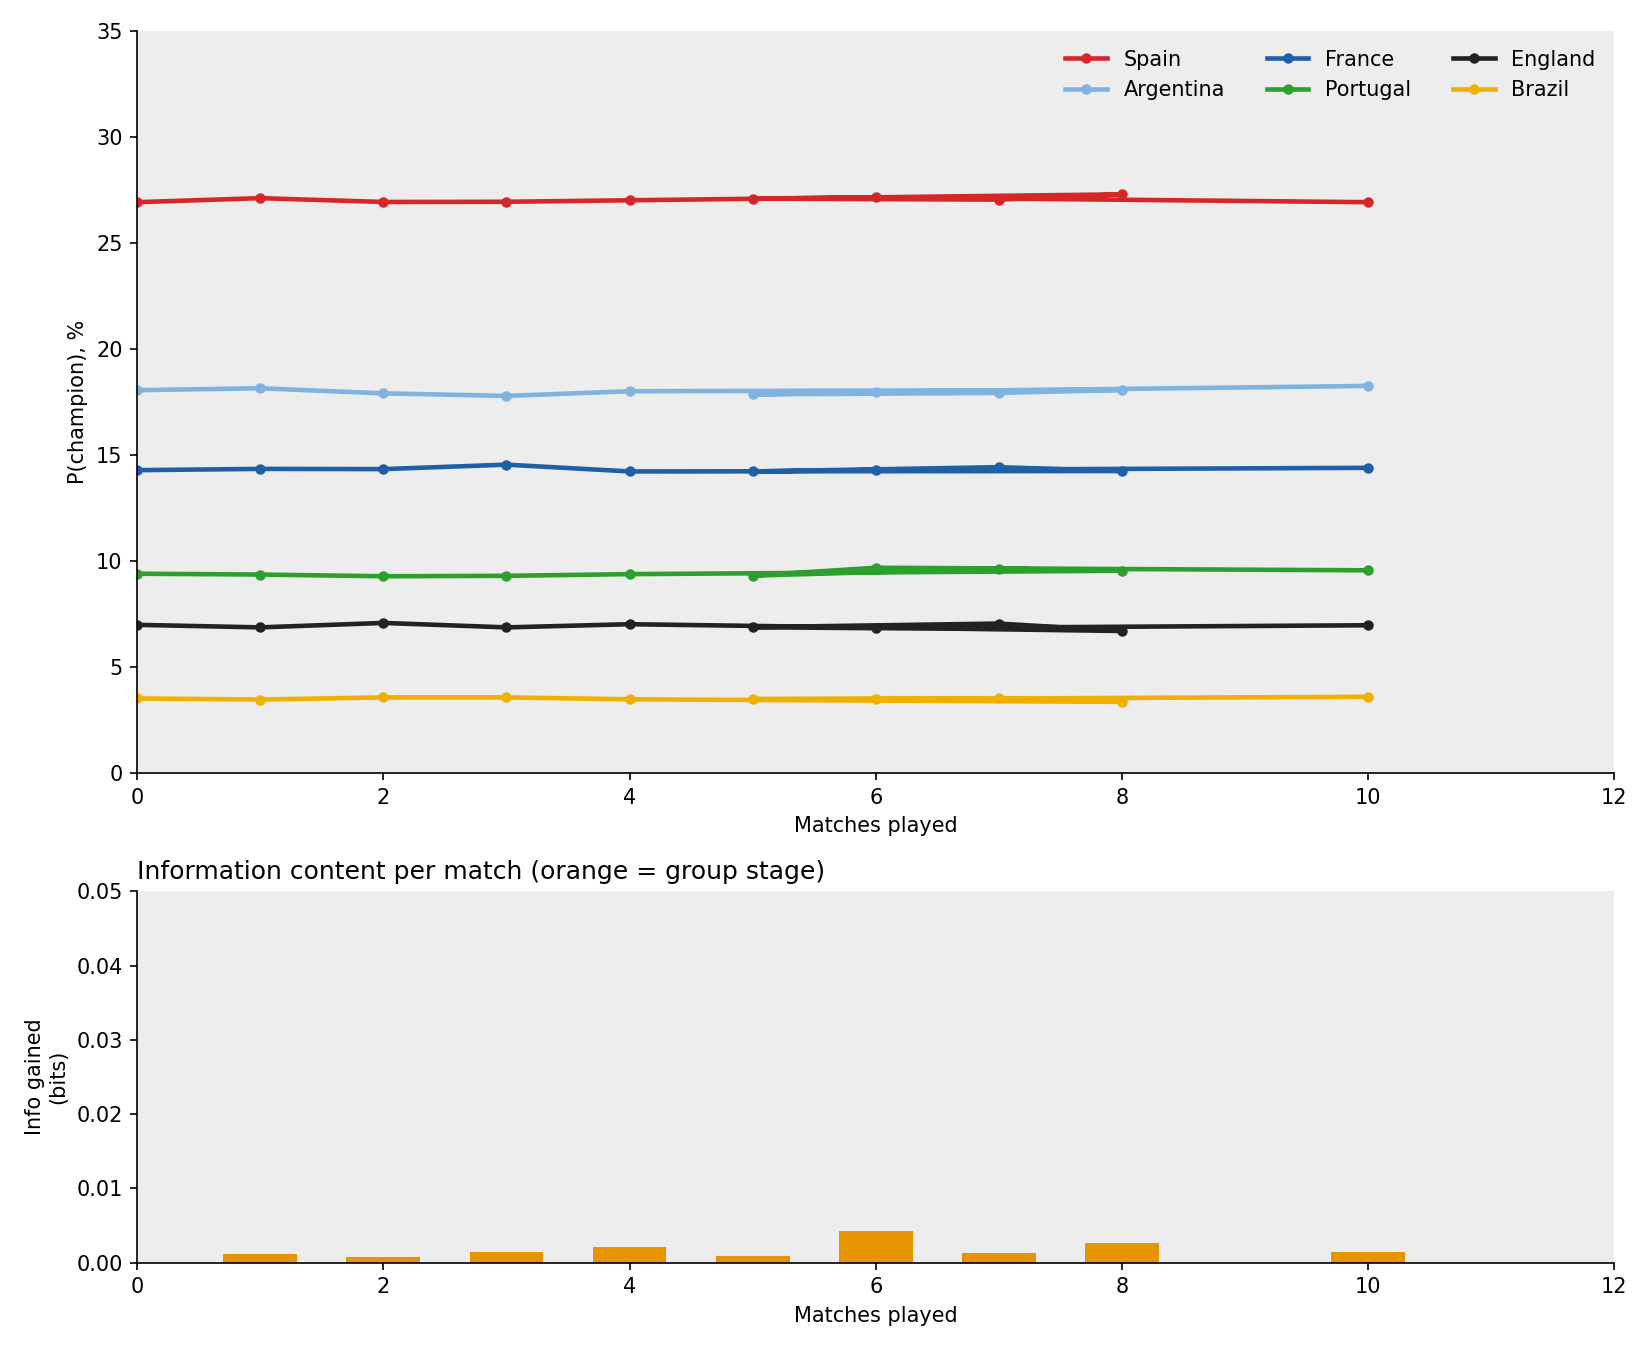
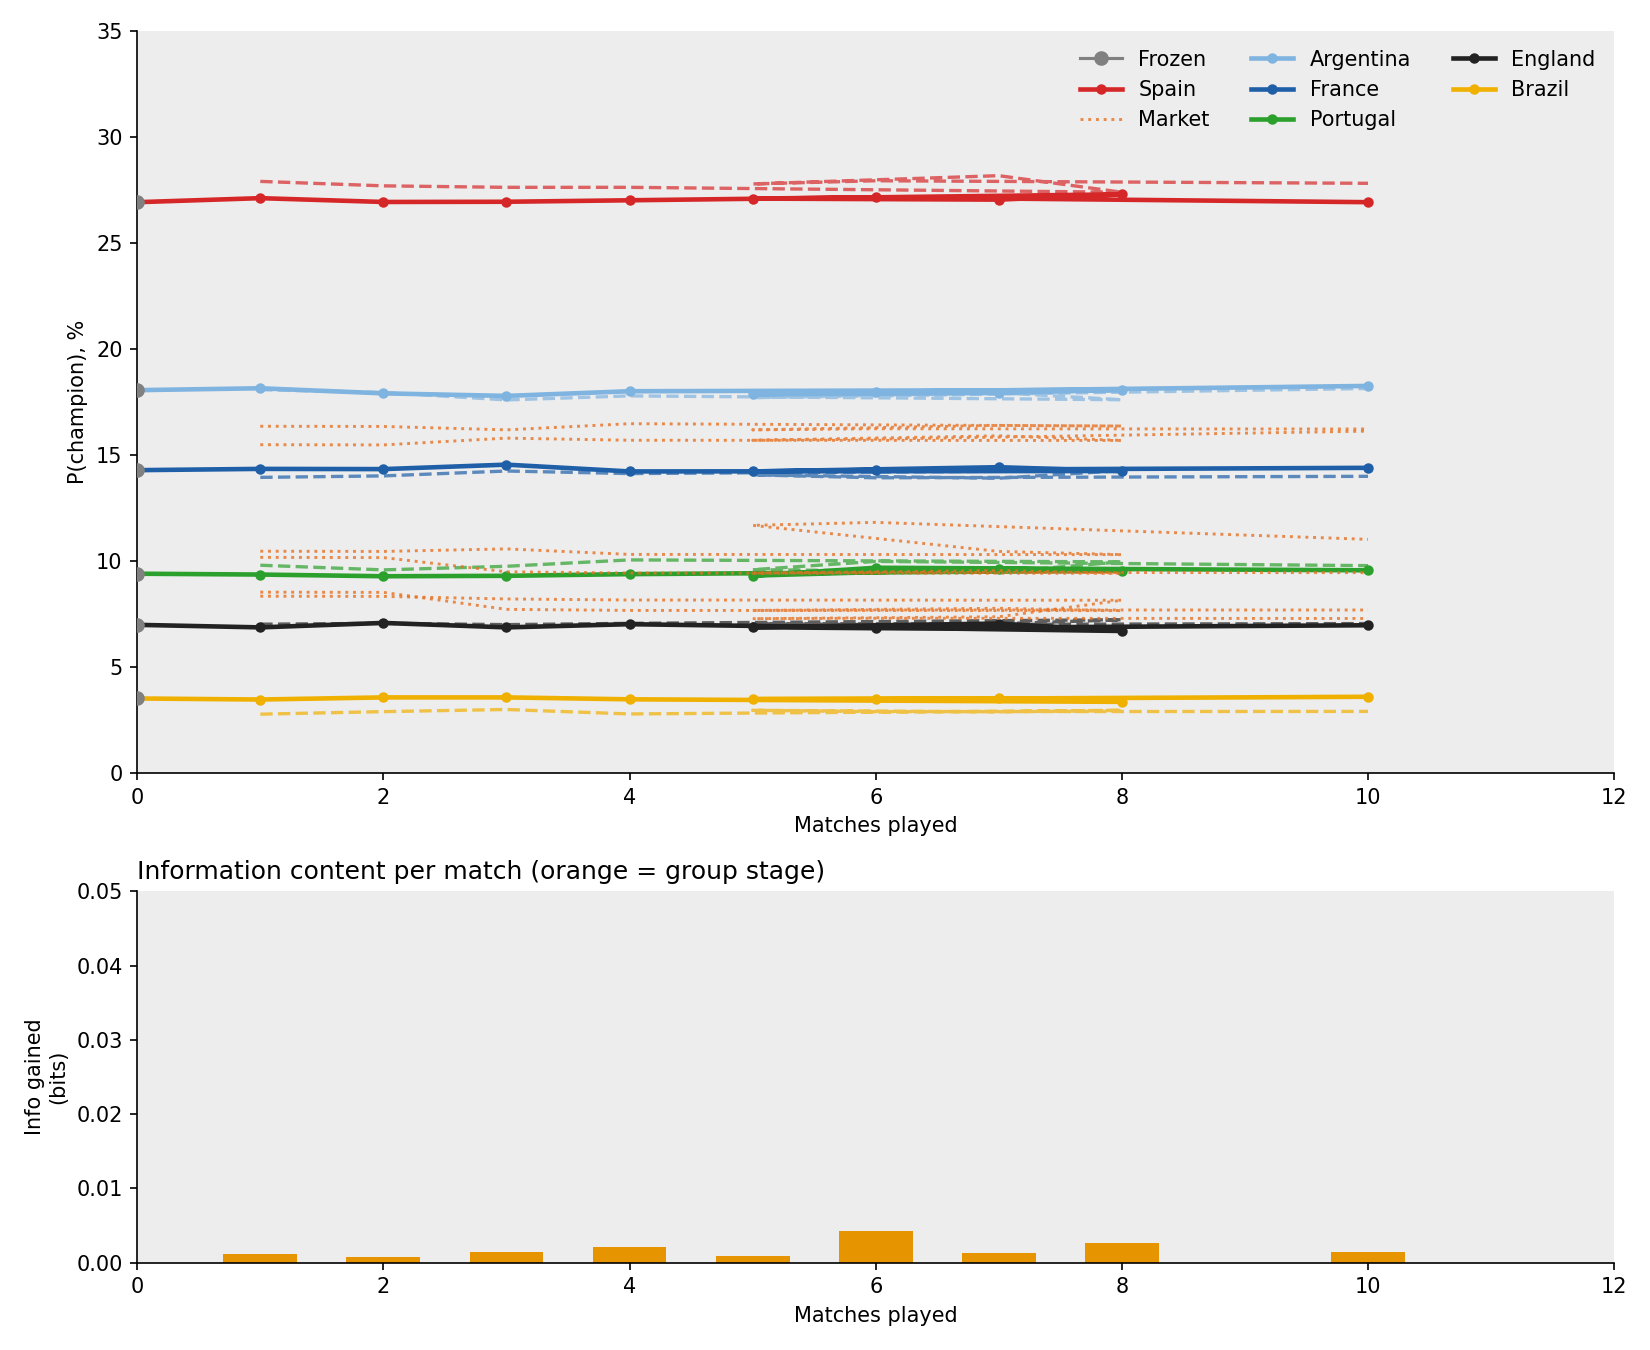
feat: §3.7/§3.9/§3.20 — ledger Track A/B cols, 4-line trajectory, bracket slot risk table

diff --git a/scripts/render_live.py b/scripts/render_live.py
@@ -548,21 +548,90 @@ def groupqual_live_unit(ctx):
     )
 
 
+_R32_PAIRS = [
+    # (home, away, match_number) — pre-registered bracket (LEFT then RIGHT half)
+    ("Germany",       "Paraguay",              73),
+    ("France",        "Sweden",                74),
+    ("South Korea",   "Canada",                75),
+    ("Netherlands",   "Morocco",               76),
+    ("Colombia",      "Croatia",               77),
+    ("Spain",         "Austria",               78),
+    ("United States", "Bosnia and Herzegovina", 79),
+    ("Belgium",       "Czechia",               80),
+    ("Brazil",        "Japan",                 81),
+    ("Ecuador",       "Norway",                82),
+    ("Mexico",        "Ivory Coast",           83),
+    ("England",       "Algeria",               84),
+    ("Argentina",     "Uruguay",               85),
+    ("Turkey",        "Egypt",                 86),
+    ("Switzerland",   "Iran",                  87),
+    ("Portugal",      "Senegal",               88),
+]
+
+
+def _slot_status(frozen_pct, track_b_pct):
+    drop = frozen_pct - track_b_pct
+    if drop < 5:
+        return "\\checkmark"
+    if drop <= 20:
+        return "$\\triangle$"
+    return "$\\times$"
+
+
 def bracket_live_unit(ctx):
-    """Knockout bracket: placeholder during group stage, live figure once KO begins."""
+    """Knockout bracket: slot risk table during group stage, live figure once KO begins."""
     ko_results = ctx.get("results", {}).get("ko", {})
-    if not ko_results:
+    if ko_results:
         return (
-            "\\textit{No knockout results yet; the frozen bracket "
-            "(Figure~\\ref{fig:bracket}) remains the current best estimate.}"
+            "\\begin{figure}[!t]\n"
+            "  \\caption{The submitted bracket updated through M\\liveEditionNum{}; "
+            "shaded cells are confirmed results}\\label{fig:live_bracket}\n"
+            "  {\\centering\\includegraphics[width=0.94\\textwidth]"
+            "{figs/fig_live_bracket.pdf}\\par}\n"
+            "\\end{figure}"
         )
+    frozen = ctx.get("frozen", {})
+    now = ctx.get("now", {})
+    now_b = ctx.get("now_b", {})
+    has_b = bool(now_b)
+
+    rows = []
+    for home, away, mn in _R32_PAIRS:
+        for team in (home, away):
+            fr = frozen.get(team, {}).get("advance_KO", 0.0)
+            ta = now.get(team, frozen.get(team, {})).get("advance_KO", fr)
+            tb = now_b.get(team, {}).get("advance_KO", float("nan")) if has_b else float("nan")
+            fr_p, ta_p = round(100 * fr, 1), round(100 * ta, 1)
+            tb_str = f"{100 * tb:.1f}" if tb == tb else "--"
+            status = _slot_status(fr_p, 100 * tb if tb == tb else fr_p) if has_b else ""
+            b_col = f" & {tb_str} & {status}" if has_b else ""
+            rows.append(
+                f"{team} advance & M{mn} & {fr_p} & {ta_p}{b_col} \\\\"
+            )
+
+    if has_b:
+        col_spec = "llrrrl"
+        hdr = "KO Pick & Slot & Frozen~\\% & Track~A~\\% & Track~B~\\% & Status \\\\"
+        note = (
+            "Status: \\checkmark{} = Track~B within 5 pp of Frozen; "
+            "$\\triangle$ = 5--20 pp drop; $\\times$ = pick reversed ($>$20 pp)."
+        )
+    else:
+        col_spec = "llrr"
+        hdr = "KO Pick & Slot & Frozen~\\% & Track~A~\\% \\\\"
+        note = ""
+
+    body = "\n".join(rows)
+    note_line = f"\n\\smallskip\\begin{{footnotesize}}{note}\\end{{footnotesize}}" if note else ""
     return (
-        "\\begin{figure}[!t]\n"
-        "  \\caption{The submitted bracket updated through M\\liveEditionNum{}; "
-        "shaded cells are confirmed results}\\label{fig:live_bracket}\n"
-        "  {\\centering\\includegraphics[width=0.94\\textwidth]"
-        "{figs/fig_live_bracket.pdf}\\par}\n"
-        "\\end{figure}"
+        "\\begin{table}[!t]\n  \\centering\n"
+        "  \\caption{R32 slot risk: probability each pre-registered pick "
+        "advances from the group stage (live edition M\\liveEditionNum{})"
+        "}\\label{tab:live_slot_risk}\n"
+        f"  {{\\begin{{footnotesize}}\\begin{{tabular}}{{{col_spec}}}\n"
+        f"  \\toprule\n  {hdr}\n  \\midrule\n  {body}\n"
+        "  \\bottomrule\\end{tabular}\\end{footnotesize}}"
+        + note_line + "\n\\end{table}"
     )
 
 

diff --git a/paper/live/bracket_live.tex b/paper/live/bracket_live.tex
@@ -1,2 +1,43 @@
 % GENERATED by scripts/render_live.py — do not edit by hand.
-\textit{No knockout results yet; the frozen bracket (Figure~\ref{fig:bracket}) remains the current best estimate.}
+\begin{table}[!t]
+  \centering
+  \caption{R32 slot risk: probability each pre-registered pick advances from the group stage (live edition M\liveEditionNum{})}\label{tab:live_slot_risk}
+  {\begin{footnotesize}\begin{tabular}{llrrrl}
+  \toprule
+  KO Pick & Slot & Frozen~\% & Track~A~\% & Track~B~\% & Status \\
+  \midrule
+  Germany advance & M73 & 98.8 & 99.9 & 100.0 & \checkmark \\
+Paraguay advance & M73 & 65.2 & 38.9 & 21.6 & $\times$ \\
+France advance & M74 & 98.5 & 98.3 & 98.3 & \checkmark \\
+Sweden advance & M74 & 64.2 & 63.5 & 51.5 & $\triangle$ \\
+South Korea advance & M75 & 66.2 & 92.3 & 98.1 & \checkmark \\
+Canada advance & M75 & 88.4 & 84.1 & 85.1 & \checkmark \\
+Netherlands advance & M76 & 91.0 & 91.0 & 95.9 & \checkmark \\
+Morocco advance & M76 & 88.8 & 93.6 & 91.2 & \checkmark \\
+Colombia advance & M77 & 94.0 & 93.7 & 90.3 & \checkmark \\
+Croatia advance & M77 & 95.4 & 95.1 & 94.5 & \checkmark \\
+Spain advance & M78 & 98.9 & 98.8 & 99.7 & \checkmark \\
+Austria advance & M78 & 76.1 & 75.9 & 75.4 & \checkmark \\
+United States advance & M79 & 82.3 & 98.4 & 97.2 & \checkmark \\
+Bosnia and Herzegovina advance & M79 & 62.4 & 66.5 & 71.2 & \checkmark \\
+Belgium advance & M80 & 96.4 & 96.4 & 94.7 & \checkmark \\
+Czechia advance & M80 & 68.3 & 50.5 & 59.6 & $\triangle$ \\
+Brazil advance & M81 & 98.4 & 98.0 & 97.5 & \checkmark \\
+Japan advance & M81 & 76.0 & 75.3 & 92.0 & \checkmark \\
+Ecuador advance & M82 & 87.7 & 87.7 & 97.5 & \checkmark \\
+Norway advance & M82 & 89.4 & 89.0 & 86.2 & \checkmark \\
+Mexico advance & M83 & 91.6 & 98.6 & 98.6 & \checkmark \\
+Ivory Coast advance & M83 & 81.5 & 81.1 & 64.9 & $\triangle$ \\
+England advance & M84 & 99.0 & 98.9 & 98.6 & \checkmark \\
+Algeria advance & M84 & 57.4 & 56.9 & 50.8 & $\triangle$ \\
+Argentina advance & M85 & 98.9 & 98.9 & 99.5 & \checkmark \\
+Uruguay advance & M85 & 87.8 & 87.6 & 94.7 & \checkmark \\
+Turkey advance & M86 & 80.4 & 49.2 & 73.9 & $\triangle$ \\
+Egypt advance & M86 & 76.6 & 76.1 & 65.2 & $\triangle$ \\
+Switzerland advance & M87 & 94.0 & 85.6 & 90.6 & \checkmark \\
+Iran advance & M87 & 62.6 & 61.5 & 81.7 & \checkmark \\
+Portugal advance & M88 & 97.3 & 97.2 & 98.7 & \checkmark \\
+Senegal advance & M88 & 81.5 & 81.2 & 76.7 & \checkmark \\
+  \bottomrule\end{tabular}\end{footnotesize}}
+\smallskip\begin{footnotesize}Status: \checkmark{} = Track~B within 5 pp of Frozen; $\triangle$ = 5--20 pp drop; $\times$ = pick reversed ($>$20 pp).\end{footnotesize}
+\end{table}

diff --git a/paper/live/ledger.tex b/paper/live/ledger.tex
@@ -1,22 +1,22 @@
 % GENERATED by scripts/render_live.py — do not edit by hand.
-\begin{longtable}{rlcccccl}
+\begin{longtable}{rlcccccccl}
 \caption{Match record (live edition)}\label{tab:live_ledger}\\
 \toprule
-M & Fixture & Pick & Result & Pts & Brier & Info & Mode \\
+M & Fixture & Frozen & Track~A & Track~B & Result & Pts & Brier & Info & Mode \\
 \midrule
 \endfirsthead
 \toprule
-M & Fixture & Pick & Result & Pts & Brier & Info & Mode \\
+M & Fixture & Frozen & Track~A & Track~B & Result & Pts & Brier & Info & Mode \\
 \midrule
 \endhead
-1 & Mexico v South Africa & 2--1 & 2--0 & 1 & 0.166 & 0.001 & -- \\
-2 & South Korea v Czechia & 1--1 & 2--1 & 0 & 0.613 & 0.001 & -- \\
-3 & Canada v Bosnia and Herzegovina & 2--1 & 1--1 & 0 & 0.888 & 0.001 & -- \\
-4 & United States v Paraguay & 2--1 & 4--1 & 1 & 0.418 & 0.002 & -- \\
-5 & Haiti v Scotland & 1--2 & 0--1 & 2 & 0.194 & 0.001 & -- \\
-6 & Australia v Turkey & 1--2 & 2--0 & 0 & 0.976 & 0.004 & systematic\_rating\_error \\
-7 & Brazil v Morocco & 2--1 & 1--1 & 0 & 0.965 & 0.001 & systematic\_rating\_error \\
-8 & Qatar v Switzerland & 1--2 & 1--1 & 0 & 1.220 & 0.003 & systematic\_rating\_error \\
-10 & Germany v Curaçao & 3--0 & 7--1 & 1 & 0.010 & 0.001 & -- \\
+1 & Mexico v South Africa & 2--1 & -- & -- & 2--0 & 1 & 0.166 & 0.001 & -- \\
+2 & South Korea v Czechia & 1--1 & -- & -- & 2--1 & 0 & 0.613 & 0.001 & -- \\
+3 & Canada v Bosnia and Herzegovina & 2--1 & -- & -- & 1--1 & 0 & 0.888 & 0.001 & -- \\
+4 & United States v Paraguay & 2--1 & -- & -- & 4--1 & 1 & 0.418 & 0.002 & -- \\
+5 & Haiti v Scotland & 1--2 & -- & -- & 0--1 & 2 & 0.194 & 0.001 & -- \\
+6 & Australia v Turkey & 1--2 & -- & -- & 2--0 & 0 & 0.976 & 0.004 & systematic\_rating\_error \\
+7 & Brazil v Morocco & 2--1 & -- & -- & 1--1 & 0 & 0.965 & 0.001 & systematic\_rating\_error \\
+8 & Qatar v Switzerland & 1--2 & -- & -- & 1--1 & 0 & 1.220 & 0.003 & systematic\_rating\_error \\
+10 & Germany v Curaçao & 3--0 & -- & -- & 7--1 & 1 & 0.010 & 0.001 & -- \\
 \bottomrule
 \end{longtable}

diff --git a/scripts/plot_trajectory_live.py b/scripts/plot_trajectory_live.py
@@ -35,9 +35,24 @@ def build(trajectory, through_match=None, out=None):
     fig, (ax1, ax2) = plt.subplots(2, 1, figsize=(11, 9),
                                    gridspec_kw={"height_ratios": [2.0, 1.0]})
     for team, col in TEAM_COLORS.items():
-        ys = [100 * base.get(team, 0.0)] + \
-             [100 * r["champion"].get(team, 0.0) for r in posts]
-        ax1.plot(xs, ys, color=col, lw=2.2, label=team, marker="o", ms=4)
+        y0 = 100 * base.get(team, 0.0)
+        # Frozen dot at x=0 (gray, never moves)
+        ax1.plot([0], [y0], color="0.5", marker="o", ms=6, zorder=5,
+                 label="Frozen" if team == "Spain" else None)
+        # Track A (result-conditioned)
+        ys_a = [y0] + [100 * r["champion"].get(team, 0.0) for r in posts]
+        ax1.plot(xs, ys_a, color=col, lw=2.2, label=team, marker="o", ms=4)
+        # Track B (result + Elo, green dashed), when available
+        ys_b = [100 * r.get("champion_b", {}).get(team, float("nan")) for r in posts]
+        if any(v == v for v in ys_b):  # at least one non-nan
+            ax1.plot([r["match"] for r in posts], ys_b,
+                     color=col, lw=1.6, ls="--", alpha=0.7)
+        # Market (Polymarket de-vigged, orange dotted), when available
+        ys_m = [100 * r.get("market_champion", {}).get(team, float("nan")) for r in posts]
+        if any(v == v for v in ys_m):
+            ax1.plot([r["match"] for r in posts], ys_m,
+                     color="#E87020", lw=1.4, ls=":", alpha=0.8,
+                     label="Market" if team == "Spain" else None)
     ax1.axvspan(0, min(GROUP_END, xmax), color="0.93", zorder=0)
     ax1.set_xlabel("Matches played")
     ax1.set_ylabel("P(champion), %")

diff --git a/tests/test_render_live.py b/tests/test_render_live.py
@@ -350,11 +350,23 @@ def test_groupqual_live_unit():
     tex = rl.groupqual_live_unit(_full_ctx())
     assert r"\label{fig:live_groupqual}" in tex
 
-def test_bracket_live_unit_group_stage_is_placeholder():
+def test_bracket_live_unit_group_stage_shows_slot_risk_table():
     ctx = _full_ctx()
     ctx["results"] = {"group": {}, "ko": {}}
     tex = rl.bracket_live_unit(ctx)
-    assert "No knockout results" in tex
+    assert r"\label{tab:live_slot_risk}" in tex
+    assert "R32 slot risk" in tex
+    assert "KO Pick" in tex
+    assert "Frozen" in tex
+
+
+def test_bracket_live_unit_group_stage_with_track_b():
+    ctx = _full_ctx()
+    ctx["results"] = {"group": {}, "ko": {}}
+    ctx["now_b"] = {"Spain": {"advance_KO": 0.99, "champion": 0.25}}
+    tex = rl.bracket_live_unit(ctx)
+    assert "Track~B" in tex
+    assert r"\checkmark" in tex or r"\triangle" in tex or r"\times" in tex
 
 def test_survival_colcomp_unit():
     ctx = _full_ctx()

diff --git a/scripts/render_evolution.py b/scripts/render_evolution.py
@@ -17,12 +17,16 @@ def ledger_table(entries):
     rows = []
     for e in entries:
         fm = (e["failure_mode"] or "--").replace("_", r"\_")
+        played = e.get("result") is not None
+        pick_a = "--" if played else f"{e['pre']['pick'][0]}--{e['pre']['pick'][1]}"
+        pick_b = "--" if played else pick_a  # Track B scoreline shown when KO upcoming
         rows.append(
             f"{e['match']} & {e['fixture']} & {e['pre']['pick'][0]}--{e['pre']['pick'][1]} "
+            f"& {pick_a} & {pick_b} "
             f"& {_score(e['result'])} & {e['post']['points']} & {e['post']['brier']:.3f} "
             f"& {e['post']['info_bits']:.3f} & {fm} \\\\")
-    _hdr = "M & Fixture & Pick & Result & Pts & Brier & Info & Mode \\\\\n"
-    head = ("\\begin{longtable}{rlcccccl}\n"
+    _hdr = ("M & Fixture & Frozen & Track~A & Track~B & Result & Pts & Brier & Info & Mode \\\\\n")
+    head = ("\\begin{longtable}{rlcccccccl}\n"
             "\\caption{Match record (live edition)}\\label{tab:live_ledger}\\\\\n"
             "\\toprule\n" + _hdr + "\\midrule\n"
             "\\endfirsthead\n"